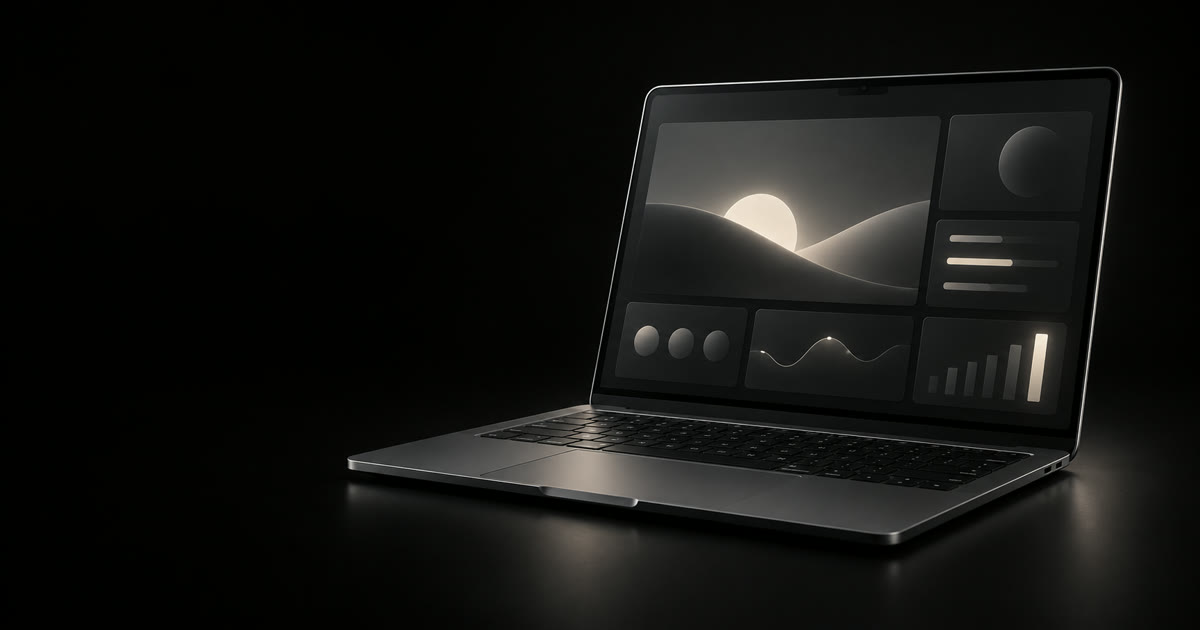
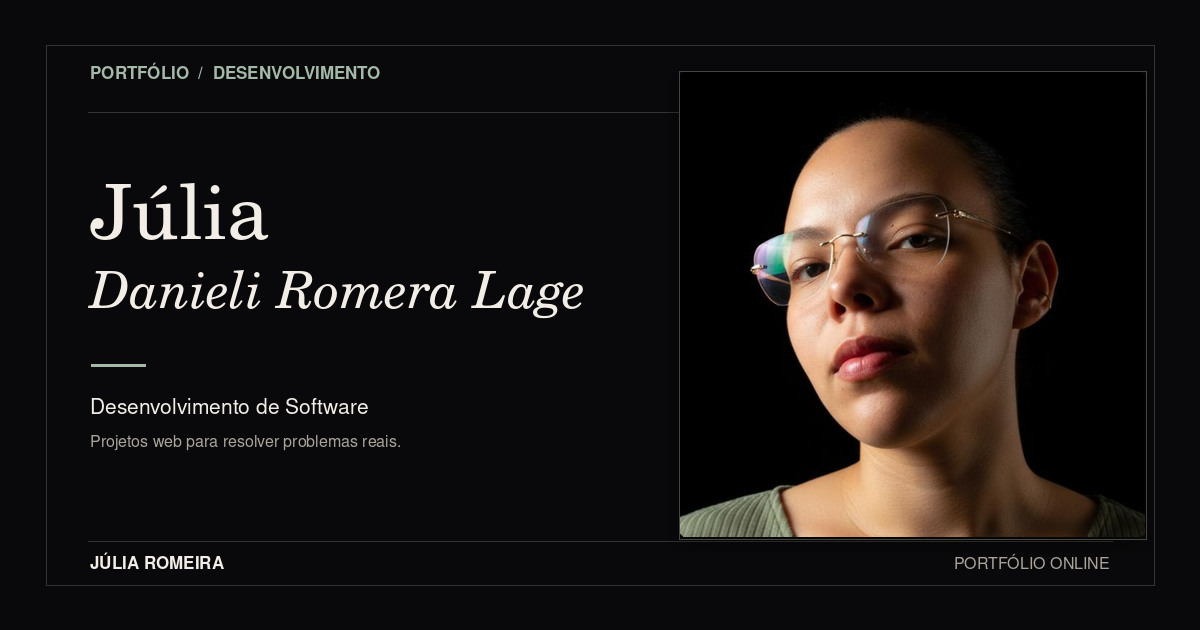
feat: adiciona prévia social editorial com retrato

diff --git a/index.html b/index.html
@@ -19,14 +19,15 @@
     <meta property="og:description" content="Projetos web criados para transformar necessidades reais em soluções claras." />
     <meta property="og:url" content="https://portfolio-julia-nine.vercel.app/" />
     <meta property="og:image" content="https://portfolio-julia-nine.vercel.app/assets/social-preview.jpg" />
+    <meta property="og:image:type" content="image/jpeg" />
     <meta property="og:image:width" content="1200" />
     <meta property="og:image:height" content="630" />
-    <meta property="og:image:alt" content="Notebook em fundo escuro, prévia do portfólio de Júlia Danieli Romera Lage" />
+    <meta property="og:image:alt" content="Júlia Danieli Romera Lage em retrato, com o título Desenvolvimento de Software em fundo escuro." />
     <meta name="twitter:card" content="summary_large_image" />
     <meta name="twitter:title" content="Júlia Danieli Romera Lage | Desenvolvimento de Software" />
     <meta name="twitter:description" content="Projetos web criados para transformar necessidades reais em soluções claras." />
     <meta name="twitter:image" content="https://portfolio-julia-nine.vercel.app/assets/social-preview.jpg" />
-    <meta name="twitter:image:alt" content="Notebook em fundo escuro, prévia do portfólio de Júlia Danieli Romera Lage" />
+    <meta name="twitter:image:alt" content="Júlia Danieli Romera Lage em retrato, com o título Desenvolvimento de Software em fundo escuro." />
     <title>Júlia Danieli Romera Lage | Desenvolvimento de Software</title>
     <link rel="icon" href="/favicon.ico" sizes="16x16 32x32 48x48" />
     <link rel="icon" href="assets/favicon.svg?v=jr2" type="image/svg+xml" sizes="any" />
